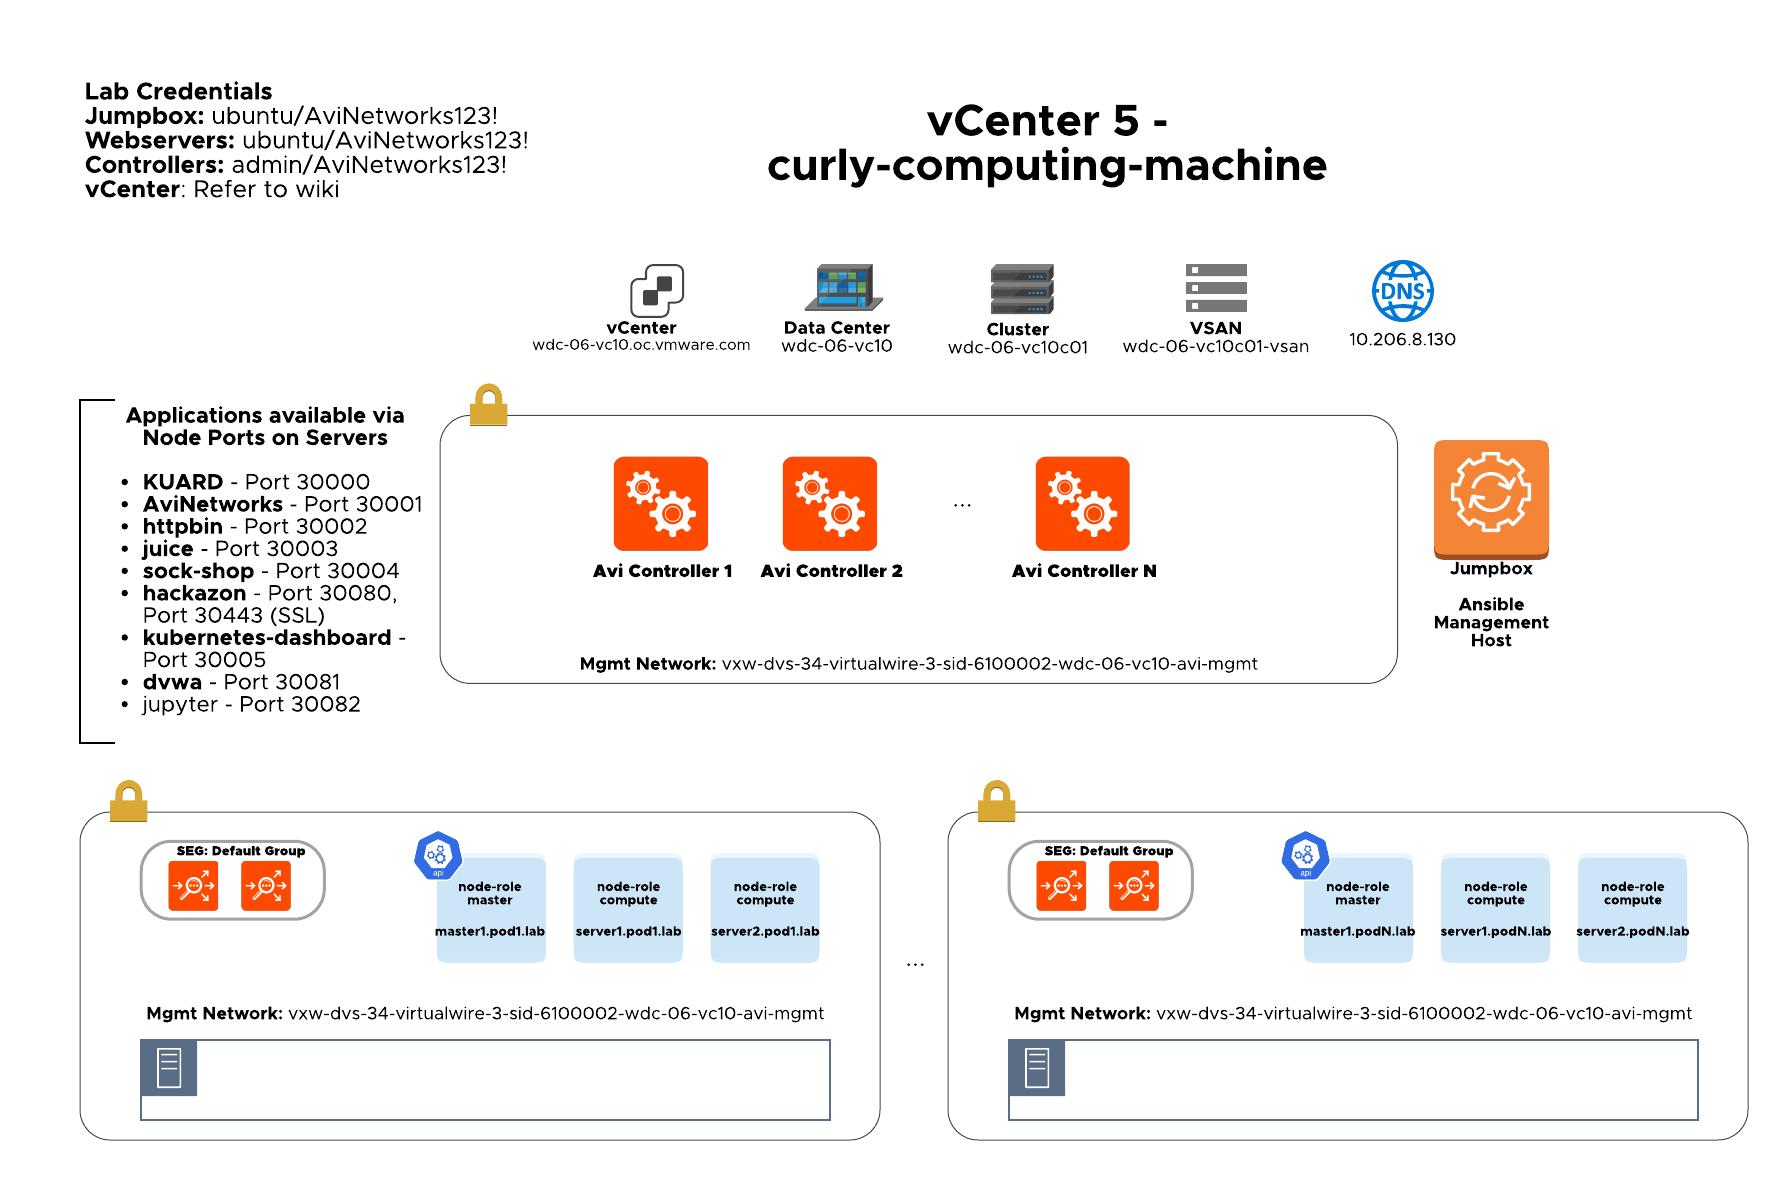
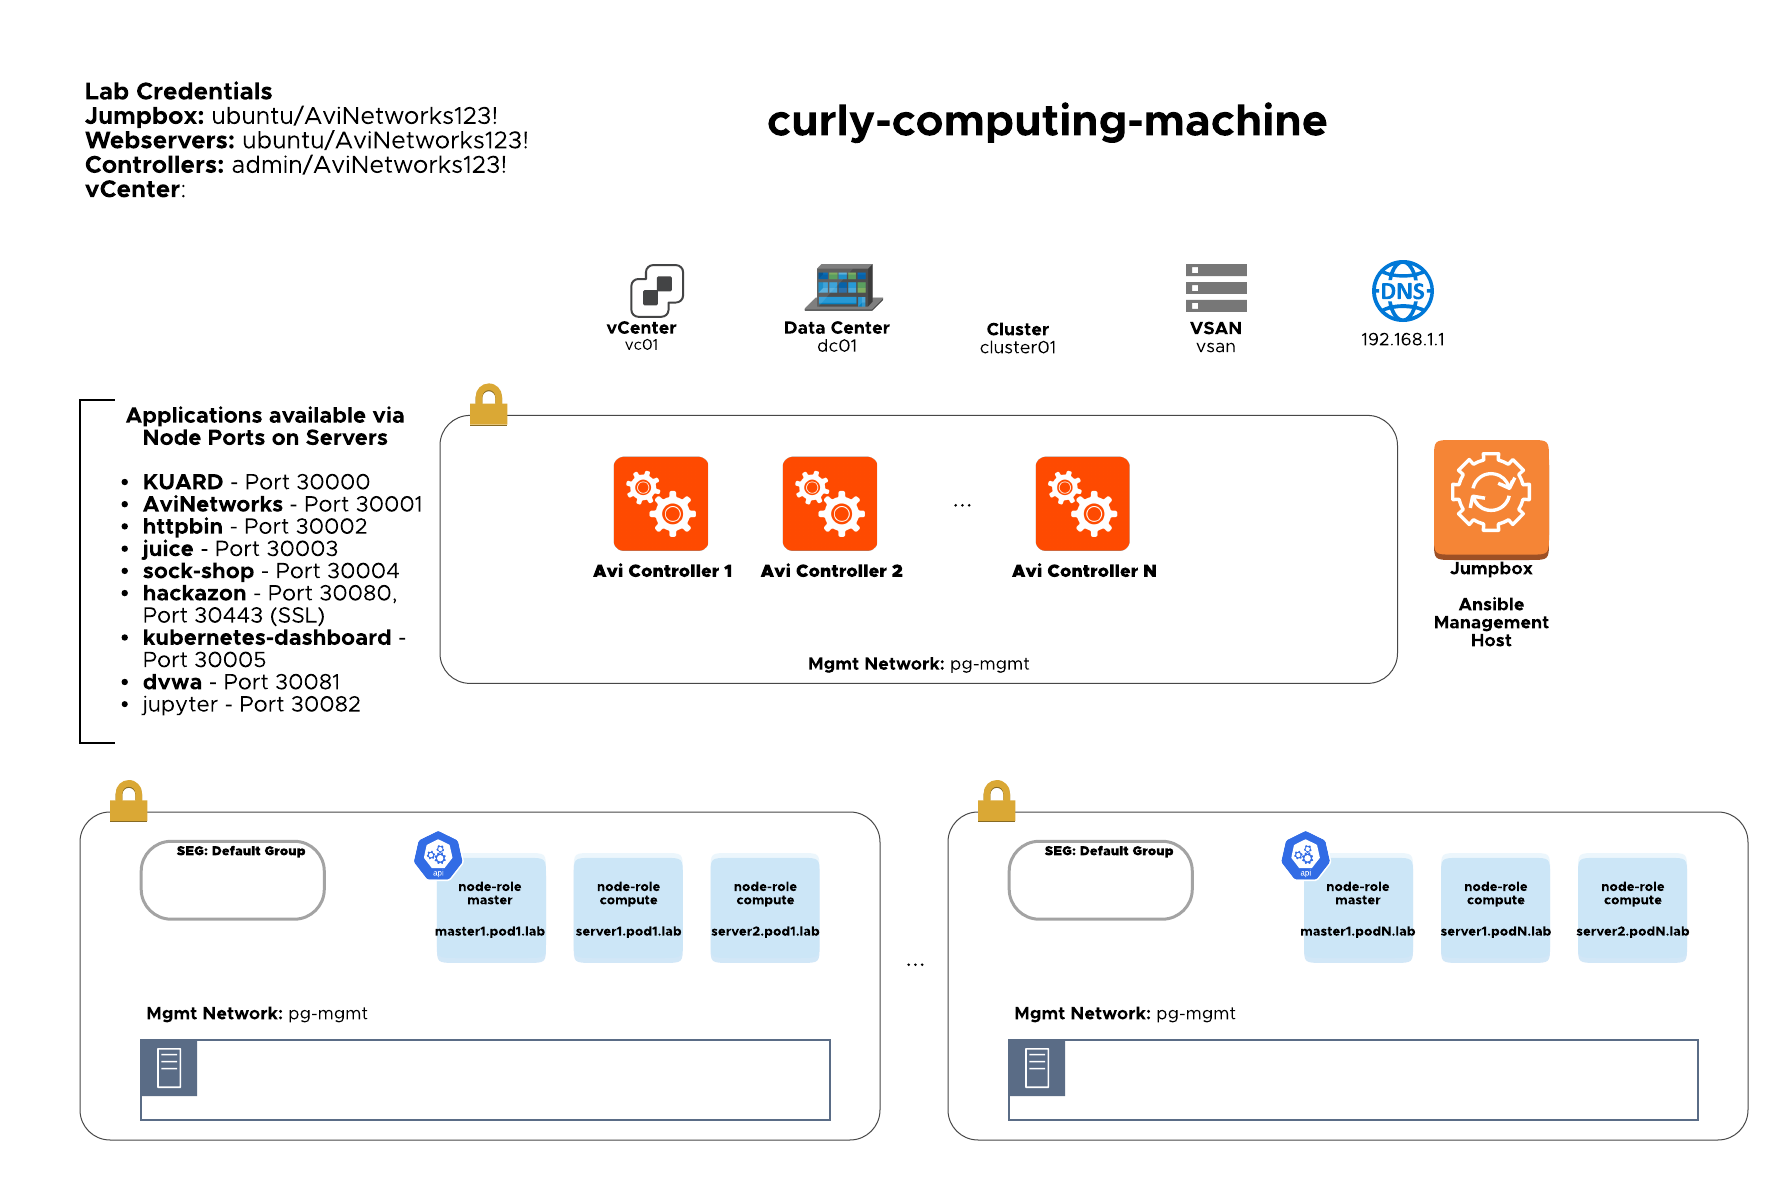
Update README.md

diff --git a/README.md b/README.md
@@ -29,7 +29,180 @@ Applications available via Node Ports on Servers. Ingress automation is availabl
  - Terraform >= 0.12.10
  - Ansible >= 2.9.2
  - vCenter (tested starting 6.5+)
+ - Ubuntu OVA image imported as VM template. Ubuntu VM template has to support user-data, please download official Ubuntu OVA image from https://cloud-images.ubuntu.com/bionic/current/
+ - Avi Controller image (18.2.6+) imported as VM template
+ - DHCP is required for Management Port Group to bootstrap the virtual machines as well as Internet connectivity
 
      **NOTE**: all the deployment work was performed within avitools container: [https://github.com/avinetworks/avitools](https://github.com/avinetworks/avitools)
 
 ## Getting Started
+
+      **NOTE**: all the deployment work was performed within avitools container: [https://github.com/avinetworks/avitools](https://github.com/avinetworks/avitools)
+
+ 1. Clone the repository - [https://github.com/smarunich/curly-computing-machine](https://github.com/smarunich/curly-computing-machine)
+
+```
+root@avitools:~# git clone https://github.com/smarunich/curly-computing-machine
+Cloning into ‘curly-computing-machine'...
+```
+
+ 2. Initialize a Terraform working directory
+ ```
+root@avitools:~/curly-computing-machine# terraform init
+Initializing the
+backend... Initializing provider plugins... Checking for available
+provider plugins...
+
+* provider.local: version = "~> 1.4"
+* provider.random: version = "~> 2.2"
+* provider.template: version = "~> 2.1"
+* provider.tls: version = "~> 2.1"
+* provider.vsphere: version = "~> 1.17"
+
+Terraform has been successfully initialized!
+```
+3. Copy the minimum required variables template
+```
+root@avitools:~/curly-computing-machine# cp sample_terraform_tfvars terraform.tfvars
+```
+4. Fill out the required variables - terraform.tfvars
+
+    **NOTE**: Avi Controller AMI must be shared with the target AWS account
+```
+#terraform.tfvars
+vsphere_server = ""
+vsphere_user = ""
+vsphere_password = ""
+avi_admin_password = "AviNetworks123!"
+avi_default_password = "58NFaGDJm(PJH0G"
+avi_backup_admin_username = "aviadmin"
+avi_backup_admin_password = "AviNetworks123!"
+pod_count = 2
+id = "magicenable"
+dns_server = ""
+dc = "dc01"
+cluster = "cluster01"
+datastore = "vsan"
+network = "pg-mgmt"
+vip_ipam_cidr = "10.206.40.0/22"
+vip_ipam_allocation_range = "10.206.41.1-10.206.41.40"
+```
+5. Update vars_pod.tf with appropriate VM template names for jumpbox, server and controller objects
+```
+variable "controller" {
+  type = map
+  default = {
+    cpu = 8
+    memory = 24768
+    disk = 128
+    template = "controller-18.2.6-9134-template"
+  # mgmt_ip = ""
+  # mgmt_mask = ""
+  # default_gw = ""
+  }
+}
+
+variable "jumpbox" {
+  type = map
+  default = {
+    cpu = 2
+    memory = 4096
+    disk = 20
+    # The image must support user-data, https://cloud-images.ubuntu.com/bionic/current/
+    template = "ubuntu-bionic-18.04-cloudimg-20200407"
+  # mgmt_ip = ""
+  # mgmt_mask = ""
+  # default_gw = ""
+  }
+}
+
+variable "server" {
+  type = map
+  default = {
+    cpu = 2
+    memory = 4096
+    disk = 60
+    # The image must support user-data, https://cloud-images.ubuntu.com/bionic/current/
+    template = "ubuntu-bionic-18.04-cloudimg-20200407"
+  # mgmt_ip = ""
+  # mgmt_mask = ""
+  # default_gw = ""
+  }
+```
+6. Prepare the terraform plan
+```
+root@avitools:~/curly-computing-machine# terraform plan
+
+…
+
+Plan: 74 to add, 0 to change, 0 to destroy.
+------------------------------------------------------------------------
+Note: You didn't specify an "-out" parameter to save this plan, so
+Terraform can't guarantee that exactly these actions will be performed
+if "terraform apply" is subsequently run
+7. Apply the terraform plan
+aviadmin@avitools:~/curly-computing-machine# terraform apply
+
+…
+Plan: 74 to add, 0 to change, 0 to destroy.
+Do you want to perform these actions?   Terraform will perform the
+actions described above.   Only 'yes' will be accepted to approve.
+
+Enter a value: yes
+
+...
+
+Apply complete! Resources: 40 added, 0 changed, 0 destroyed.
+
+Outputs:
+Controller_PublicIP = [
+"54.188.71.166",
+"54.185.115.180",
+]
+Jumpbox_PublicIP = 54.202.241.121
+Master_PublicIP = [
+"34.213.245.110",
+"34.221.24.201",
+]
+8. Review the environment details
+aviadmin@avitools:~/curly-computing-machine# terraform output
+ Controller_PublicIP = [
+"54.188.71.166",
+"54.185.115.180",
+]
+Jumpbox_PublicIP = 54.202.241.121
+Master_PublicIP = [
+"34.213.245.110",
+"34.221.24.201",
+]
+```
+9. SSH into the environment
+```
+ aviadmin@avitools:~/curly-computing-machine# ls keys/
+generated-access-key-polecat.pem  generated-access-key-polecat.pub
+ aviadmin@avitools:~/curly-computing-machine# ssh -i keys/generated-access-key-polecat.pem 54.202.241.121 -l ubuntu
+ ```
+10. (Optional) Check the registered inventory
+```
+ubuntu@jumpbox:~$ cat /etc/hosts
+...
+172.20.0.202	jumpbox.pod.lab
+54.202.241.121	public.jumpbox.pod.lab
+172.20.1.157	master1.pod2.lab
+34.221.24.201	public.master1.pod2.lab
+172.20.1.127	server2.pod2.lab
+50.112.180.171	public.server2.pod2.lab
+172.20.1.134	master1.pod1.lab
+34.213.245.110	public.master1.pod1.lab
+172.20.1.244	server2.pod1.lab
+52.43.221.124	public.server2.pod1.lab
+172.20.1.30	server1.pod2.lab
+54.185.175.111	public.server1.pod2.lab
+172.20.0.31	controller.pod2.lab
+54.185.115.180	public.controller.pod2.lab
+172.20.0.130	controller.pod1.lab
+54.188.71.166	public.controller.pod1.lab
+172.20.1.247	server1.pod1.lab
+54.201.30.215	public.server1.pod1.lab
+ubuntu@jumpbox:~$ /etc/ansible/hosts --list
+```
